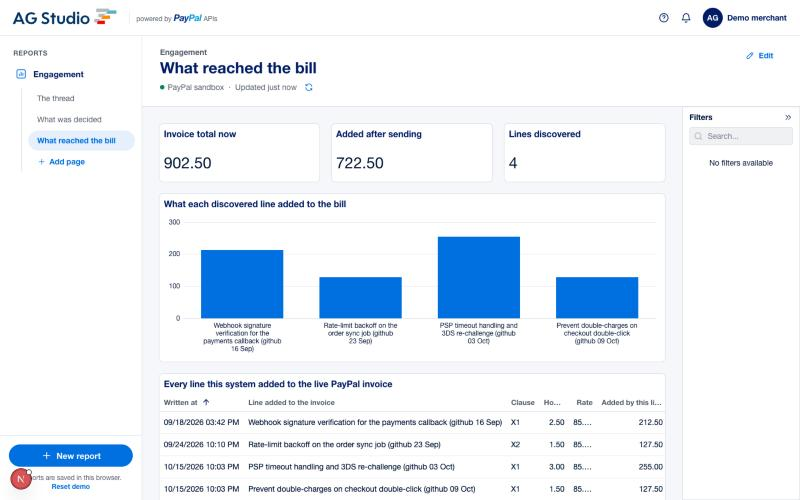
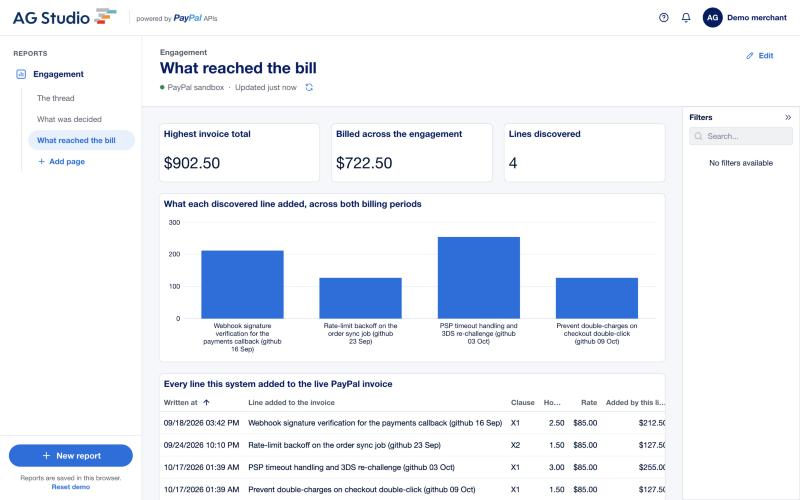
Money on a page about money, in the currency that was agreed
AG's currencyFormat carries no currency. Its default pattern is "#,##0.00" — byte for
byte the decimal one — so every figure on the page a contractor opens to see what a
client owes read 860.00, beside a README writing the same quantity as $902.50. The three
tiles, the ledger's three money columns and the chart were all bare.

The symbol is the engagement's own, read once server-side where the fields are declared,
because the fields are built when Studio is built and a second render to add a symbol
would reset the open report. If the service is unreachable the page renders as before and
the figures stay unsymbolled: a currency nobody confirmed is worse than none.

Intl's `symbol` rather than `narrowSymbol`, which renders AUD, CAD and SGD all as a bare
$. On an invoice that is not a cosmetic difference, and this product exists for the
cross-border case. The symbol is quoted in the pattern so a multi-character one survives:
unquoted, "USD #,##0.00" renders as U 1,234.50, because D is a format code.

Seven tests, through AG's own formatter rather than against the string handed to it,
since the string is only worth what the library makes of it.

Two captions described a dashboard that does not exist: the apply button was placed on
the bill page, where it has never been, and the decisions page was said to draw the
baseline's uncited billings as defects when the page shows the model arm, every verdict
[…]

diff --git a/web/app/dashboard/studio/data.ts b/web/app/dashboard/studio/data.ts
@@ -39,21 +39,69 @@ const VERDICT_FIELDS: AgFieldDefinition<UnloggedRegistry>[] = [
   { id: 'confidence', name: 'Confidence', format: 'decimalFormat' },
 ];
 
-const LEDGER_FIELDS: AgFieldDefinition<UnloggedRegistry>[] = [
-  { id: 'at', name: 'Written at', format: 'dateTimeFormat' },
-  // Present because the ledger spans billing periods: the seeded rows belong to an earlier
-  // invoice. Without this column the money tiles above read as one invoice's figures when
-  // they are the engagement's, and nothing on the page says which.
-  { id: 'invoice_id', name: 'Invoice', format: 'textFormat' },
-  { id: 'event_id', name: 'From event', format: 'textFormat' },
-  { id: 'line_name', name: 'Line added to the invoice', format: 'textFormat' },
-  { id: 'clause_id', name: 'Clause', format: 'textFormat' },
-  { id: 'hours', name: 'Hours', format: 'decimalFormat' },
-  { id: 'unit_price', name: 'Rate', format: 'currencyFormat' },
-  { id: 'line_total', name: 'Added by this line', format: 'currencyFormat' },
-  { id: 'total_after', name: 'Invoice total after', format: 'currencyFormat' },
-  { id: 'adjudicator', name: 'Decided by', format: 'textFormat' },
-];
+/**
+ * What a money column should be formatted with, for the engagement's own currency.
+ *
+ * `currencyFormat` sounds like it carries a currency and does not: AG's default pattern for
+ * it is `#,##0.00`, byte for byte the decimal one. So every figure on the page a contractor
+ * opens to see what a client owes read `860.00` — on a product whose entire subject is money,
+ * next to a README that writes the same number as $902.50.
+ *
+ * The symbol is the engagement's, not a hardcoded dollar: the whole cross-border case rests on
+ * the currency being whatever was agreed. `symbol` rather than `narrowSymbol` because narrow
+ * renders AUD, CAD and SGD all as a bare `$`, which on an invoice is not a cosmetic difference.
+ * An unknown code formats as itself. The symbol is quoted so a multi-character one (`CHF`,
+ * `CA$`) is not read as format codes — unquoted, `USD #,##0.00` renders as `U 1,234.50`,
+ * because `D` is one.
+ *
+ * Returns undefined when the currency is not known, which leaves the figures exactly as they
+ * are today: a symbol nobody can check is worse than none.
+ */
+export function moneyFormat(currency?: string): { format: string } | undefined {
+  if (!currency) return undefined;
+  let symbol = currency;
+  try {
+    const parts = new Intl.NumberFormat('en', {
+      style: 'currency',
+      currency,
+      currencyDisplay: 'symbol',
+    }).formatToParts(0);
+    symbol = parts.find((part) => part.type === 'currency')?.value ?? currency;
+  } catch {
+    // Intl throws on anything that is not a well-formed currency code. The code itself is
+    // then the honest symbol.
+  }
+  return { format: `"${symbol}"#,##0.00` };
+}
+
+const ledgerFields = (currency?: string): AgFieldDefinition<UnloggedRegistry>[] => {
+  const money = moneyFormat(currency);
+  return [
+    { id: 'at', name: 'Written at', format: 'dateTimeFormat' },
+    // Present because the ledger spans billing periods: the seeded rows belong to an earlier
+    // invoice. Without this column the money tiles above read as one invoice's figures when
+    // they are the engagement's, and nothing on the page says which.
+    { id: 'invoice_id', name: 'Invoice', format: 'textFormat' },
+    { id: 'event_id', name: 'From event', format: 'textFormat' },
+    { id: 'line_name', name: 'Line added to the invoice', format: 'textFormat' },
+    { id: 'clause_id', name: 'Clause', format: 'textFormat' },
+    { id: 'hours', name: 'Hours', format: 'decimalFormat' },
+    { id: 'unit_price', name: 'Rate', format: 'currencyFormat', formatOptions: money },
+    {
+      id: 'line_total',
+      name: 'Added by this line',
+      format: 'currencyFormat',
+      formatOptions: money,
+    },
+    {
+      id: 'total_after',
+      name: 'Invoice total after',
+      format: 'currencyFormat',
+      formatOptions: money,
+    },
+    { id: 'adjudicator', name: 'Decided by', format: 'textFormat' },
+  ];
+};
 
 /** Same-origin proxy, so the browser never needs the backend's address or its credentials. */
 async function api<T>(path: string): Promise<T> {
@@ -81,7 +129,9 @@ function filterToQuery(filter: AgDataSourceGetOptions['filter']): string {
   return parts.length ? `&${parts.join('&')}` : '';
 }
 
-export function unloggedDataSource(): AgDataSourceDefinition<'row', UnloggedRegistry> {
+export function unloggedDataSource(
+  currency?: string,
+): AgDataSourceDefinition<'row', UnloggedRegistry> {
   return {
     id: 'unlogged',
     name: 'Engagement',
@@ -112,7 +162,7 @@ export function unloggedDataSource(): AgDataSourceDefinition<'row', UnloggedRegi
         description:
           'The append-only record of every line this system added to a live PayPal invoice, ' +
           'with the running total after each one.',
-        fields: LEDGER_FIELDS,
+        fields: ledgerFields(currency),
       },
     ],
     dataShape: 'row',

diff --git a/web/tests/money-format.test.ts b/web/tests/money-format.test.ts
@@ -1,0 +1,62 @@
+// Money on a page about money.
+//
+// `currencyFormat` carries no currency: AG's default pattern for it is `#,##0.00`, the same
+// string as the decimal format. Every figure on the dashboard therefore read `860.00` while
+// the README wrote the same quantity as $902.50. These tests go through AG's own formatter
+// rather than asserting the pattern we hand it, because the pattern is only worth what the
+// library makes of it — `USD #,##0.00` looks right and renders `U 1,234.50`.
+
+import assert from 'node:assert/strict';
+import { test } from 'node:test';
+
+import { createFormats } from 'ag-studio';
+
+import { moneyFormat } from '../app/dashboard/studio/data.ts';
+
+const currencyFormat = (
+  createFormats({}) as unknown as Record<
+    string,
+    { createValueFormatter: (o: unknown, p: unknown) => (v: number) => string }
+  >
+).currencyFormat;
+
+const render = (currency: string | undefined, value: number) =>
+  currencyFormat.createValueFormatter(moneyFormat(currency), { api: {}, context: {} })(value);
+
+test("AG's own currency format ships no currency, which is the reason this exists", () => {
+  const bare = currencyFormat.createValueFormatter(undefined, { api: {}, context: {} });
+  assert.equal(bare(902.5), '902.50');
+});
+
+test('the engagement currency reaches the figure', () => {
+  assert.equal(render('USD', 902.5), '$902.50');
+  assert.equal(render('EUR', 902.5), '€902.50');
+  assert.equal(render('INR', 902.5), '₹902.50');
+});
+
+test('currencies that share a symbol are still told apart', () => {
+  // Intl's narrow symbol renders AUD, CAD and SGD as a bare `$`. On an invoice that is not a
+  // cosmetic difference, so the wider symbol is the one used.
+  assert.equal(render('AUD', 902.5), 'A$902.50');
+  assert.equal(render('CAD', 902.5), 'CA$902.50');
+});
+
+test('a multi-character symbol is not read as format codes', () => {
+  // Unquoted, `D` is a format code and `USD #,##0.00` renders as `U 1,234.50`.
+  assert.equal(render('CHF', 1234.5), 'CHF1,234.50');
+  assert.equal(moneyFormat('USD')?.format, '"$"#,##0.00');
+});
+
+test('an unknown code formats as itself rather than throwing', () => {
+  assert.equal(render('ZZZ', 10), 'ZZZ10.00');
+});
+
+test('no currency means no symbol, not a guessed one', () => {
+  assert.equal(moneyFormat(undefined), undefined);
+  assert.equal(moneyFormat(''), undefined);
+  assert.equal(render(undefined, 902.5), '902.50');
+});
+
+test('negatives keep the symbol inside the sign', () => {
+  assert.equal(render('USD', -42.5), '-$42.50');
+});

diff --git a/web/app/dashboard/dashboard.tsx b/web/app/dashboard/dashboard.tsx
@@ -59,6 +59,11 @@ type DashboardProps = {
   licenseKey?: string;
   /** OpenAI models the assistant may use; omitted when no key is configured, which hides the assistant. */
   aiModels?: string[];
+  /**
+   * The engagement's currency, used to format every money column. Omitted when the service
+   * could not be reached, which leaves the figures unsymbolled rather than guessing a symbol.
+   */
+  currency?: string;
 };
 
 type StudioHistory = { canUndo: boolean; canRedo: boolean };
@@ -77,7 +82,7 @@ export function Dashboard(props: DashboardProps) {
   return inBrowser ? <ReportsDashboard {...props} /> : <DashboardSkeleton />;
 }
 
-function ReportsDashboard({ licenseKey, aiModels }: DashboardProps) {
+function ReportsDashboard({ licenseKey, aiModels, currency }: DashboardProps) {
   const { store, latest, update, editReport } = useReports();
   const apiRef = useRef<AgStudioApi | null>(null);
 
@@ -101,14 +106,14 @@ function ReportsDashboard({ licenseKey, aiModels }: DashboardProps) {
   const widgets = useMemo(() => unloggedWidgets(), []);
   const studioData = useMemo(
     () => ({
-      sources: [unloggedDataSource()],
+      sources: [unloggedDataSource(currency)],
       description:
         'One contracting engagement. `events` is the raw work surface, `verdicts` places each ' +
         'event against the agreed scope and cites the clause it relied on, and `ledger` records ' +
         'every line that was actually added to the live PayPal invoice. A verdict with no ' +
         'clause_id was not auditable and should be treated as suspect.',
     }),
-    [],
+    [currency],
   );
   // `ai` is read once, when Studio is created.
   const ai = useMemo(() => (aiModels?.length ? buildAi(aiModels) : undefined), [aiModels]);

diff --git a/web/app/dashboard/page.tsx b/web/app/dashboard/page.tsx
@@ -1,11 +1,31 @@
 import type { Metadata } from "next";
 import { connection } from "next/server";
 import { aiEnabled, aiModels } from "@/lib/ai";
+import { fetchEngagement } from "@/lib/backend";
 import { Dashboard } from "./dashboard";
 
 export const metadata: Metadata = {
   title: "Dashboard",
 };
+
+/**
+ * The currency every money column on the page is formatted in.
+ *
+ * Read here rather than in the browser because the fields are declared when Studio is built,
+ * and a second render to add a currency symbol would reset the open report. One cheap call;
+ * the rows themselves are still fetched a page at a time by the data source.
+ *
+ * If the service is unreachable the page still renders — the data source reports that per
+ * widget, which is where a reader can act on it — and the figures keep today's unsymbolled
+ * form rather than being labelled with a currency nobody confirmed.
+ */
+async function engagementCurrency(): Promise<string | undefined> {
+  try {
+    return (await fetchEngagement()).currency;
+  } catch {
+    return undefined;
+  }
+}
 
 export default async function DashboardPage() {
   // Rows are fetched per page by the Studio data source, not materialised here.
@@ -16,6 +36,7 @@ export default async function DashboardPage() {
     <Dashboard
       licenseKey={process.env.AG_STUDIO}
       aiModels={aiEnabled() ? aiModels() : undefined}
+      currency={await engagementCurrency()}
     />
   );
 }

diff --git a/README.md b/README.md
@@ -230,9 +230,11 @@ strictly worse than none, because a trial can expire and nothing here can.
 </tr>
 <tr>
 <td><em>The thread, paged from the server.</em></td>
-<td><em>Each event against the agreed scope. The baseline's two billings are
-drawn as defects because neither cites a clause.</em></td>
-<td><em>What reached the bill, and the one button that puts it there.</em></td>
+<td><em>Each event against the agreed scope, beside the sentence that decided
+it — and the one button that moves money. A verdict that would bill without
+citing a clause is drawn as a defect; this arm produces none.</em></td>
+<td><em>What reached the bill. Four discovered lines, an invoice at $902.50,
+and the append-only ledger that is the only record of how it got there.</em></td>
 </tr>
 </table>
 
@@ -278,7 +280,7 @@ to find the divergence the API cannot prevent. Each one is reproducible from thi
 | AI harness: custom agent, server tool, telemetry | ✅ built |
 | APIMatic SDK: settlement breakdown | ✅ `payments.get_captured_payment` |
 | Docker Compose, Render blueprint | ✅ API image built and verified |
-| Tests | ✅ 209 Python (incl. a property test on the money path), 11 TypeScript |
+| Tests | ✅ 209 Python (incl. a property test on the money path), 18 TypeScript |
 | Model adjudication | ✅ `gpt-6.1-sol`, 8/8 calls on the fixture, one hour estimate short, recorded so it replays keyless |
 | Evaluation against a real past engagement | ⏳ needs a real thread — see [HONESTY.md](docs/HONESTY.md) |
 

diff --git a/docs/SUBMISSION.md b/docs/SUBMISSION.md
@@ -67,16 +67,15 @@ written up in `docs/UPSTREAM.md` rather than kept as a talking point:
    plausible payload that is not a PNG. Reproducible in one curl.
 3. **The APIMatic-generated Server SDK ships no Invoicing controller** — six controllers, none
    of them invoicing — which is why every invoice call here goes through httpx.
+4. **A public AG Studio custom widget cannot declare `formatShape`.** The callback is handed
+   `{ api, context }`, `ag-studio` exports no shape builder, and returning a plain object throws
+   inside `hydrateWidget` and takes the dashboard down.
 5. **`PayPal-Request-Id` is accepted on an invoice PUT and ignored.** The identical write sent
    twice under one key took a sandbox invoice from $225.00 to $250.00 — so a retry after a lost
    response bills the client again, and the header an integration trusts to prevent that does
    nothing. The resource carries no ETag and the update accepts no `If-Match` either, so two
    writers that read before either wrote lose one of the two lines with no error: $270.00 where
    $300.00 was billed. Both reproduced live and written up in `docs/UPSTREAM.md`.
-
-4. **A public AG Studio custom widget cannot declare `formatShape`.** The callback is handed
-   `{ api, context }`, `ag-studio` exports no shape builder, and returning a plain object throws
-   inside `hydrateWidget` and takes the dashboard down.
 
 ## Challenges
 

diff --git a/docs/HONESTY.md b/docs/HONESTY.md
@@ -113,8 +113,13 @@ Written so a judge does not have to find any of this out by reading the source.
 - **The widget declares no `formatShape`,** so the assistant can place and data-map it but not
   configure its format. That is not a choice — the public API makes a shape impossible to
   construct. Evidence and a suggested fix are in `docs/UPSTREAM.md`.
-- **Accuracy of hour estimates is unmeasured.** The adjudicator estimates hours for billable
-  extras. Nothing yet checks those estimates against anything.
+- **Hours are scored, and the model is worse at them than at the call.** This bullet said they
+  were unmeasured, and that was true until `score()` learned to compare them: a run that got
+  every call right could still bill the wrong amount, and the harness called it 100%. It now
+  reports hours wrong and prices the gap at the rate card — `gpt-6.1-sol` estimates `e8` at 1.5
+  hours against a label of 2.0, which is **$42.50 the client is not charged**, visible in the
+  README's own table. What is still unmeasured is hour accuracy against anything but authored
+  labels, for the same reason the call accuracy is: there is no adjudicated real gold set yet.
 
 ## Deliberately not built
 
